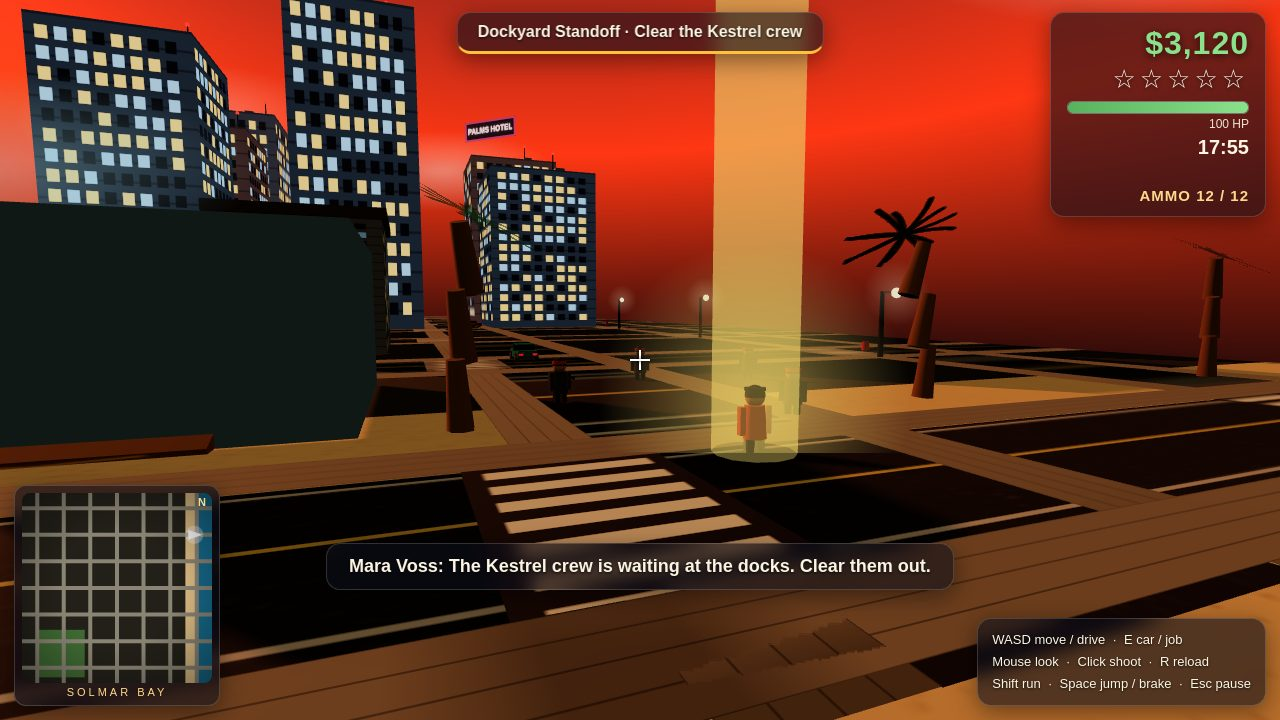
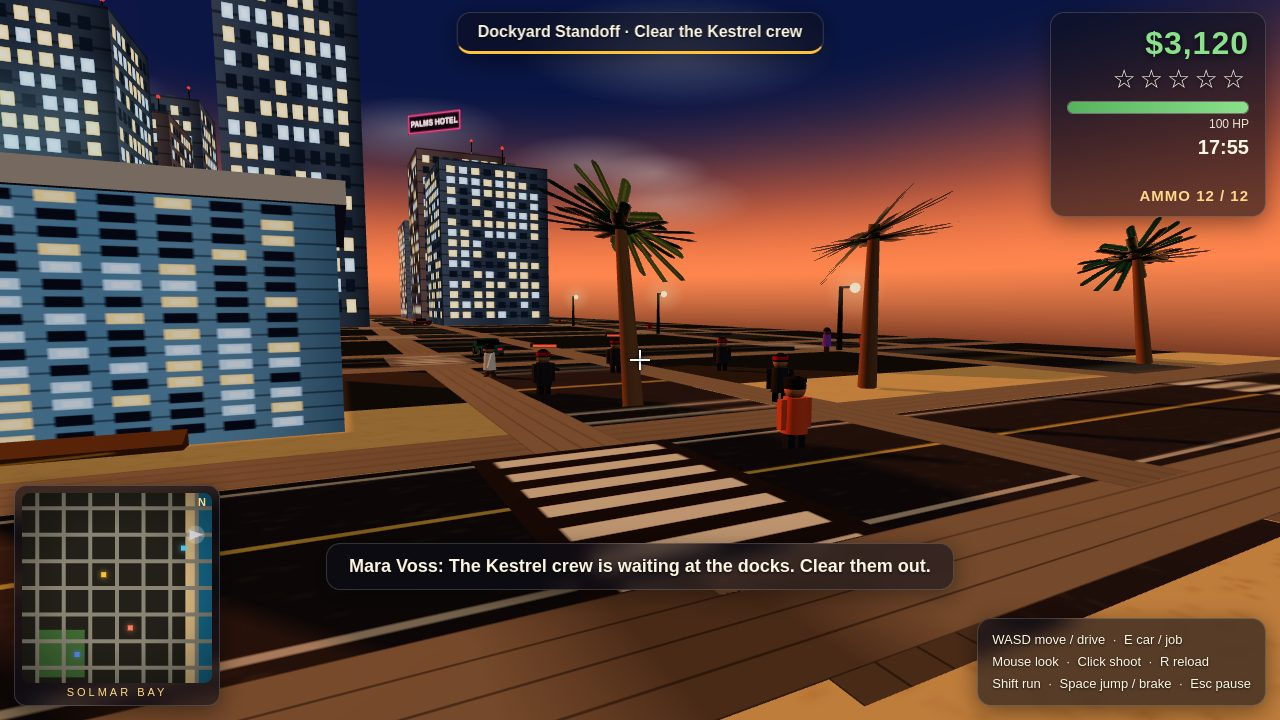
v3.1 shots: retake all four with the balanced sky; guard the build on screenshots
- 1-start: blue upper sky over a peach horizon, title + feature chips
- 2-play: Rio unobstructed on the crosswalk, textured diner, lit windows
- 3-chase: cruiser light bar + rear glow, traffic ahead, 2 stars at 43 mph
- 4-mission: Rio and the Kestrel crew in the open dock yard, HP bars up,
  green palms, no beacon column, no dark slab in frame
- main.ts now refuses to build when screenshots/*.jpg is missing/empty

diff --git a/main.ts b/main.ts
@@ -22,6 +22,14 @@ if (!existsSync(join(here, 'game', 'index.html'))) {
   throw new Error('Solmar Heat is missing game/index.html');
 }
 
+// The judge grades from the screenshots first: never ship a build
+// whose screenshot folder is missing or empty.
+import { readdirSync } from 'node:fs';
+const shotDir = join(here, 'screenshots');
+if (!existsSync(shotDir) || readdirSync(shotDir).filter((f) => f.endsWith('.jpg')).length === 0) {
+  throw new Error('Solmar Heat is missing screenshots/*.jpg — retake them first');
+}
+
 mkdirSync(dest, { recursive: true });
 cpSync(join(here, 'game'), join(dest, 'game'), { recursive: true });
 mkdirSync(join(dest, 'screenshots'), { recursive: true });
